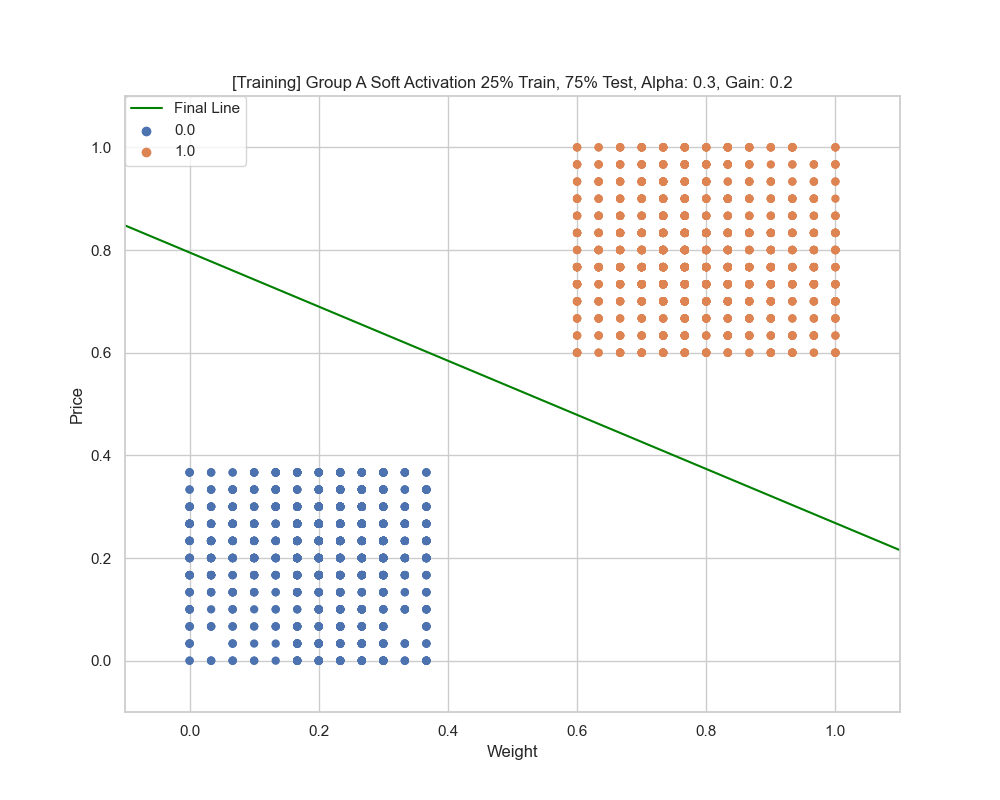
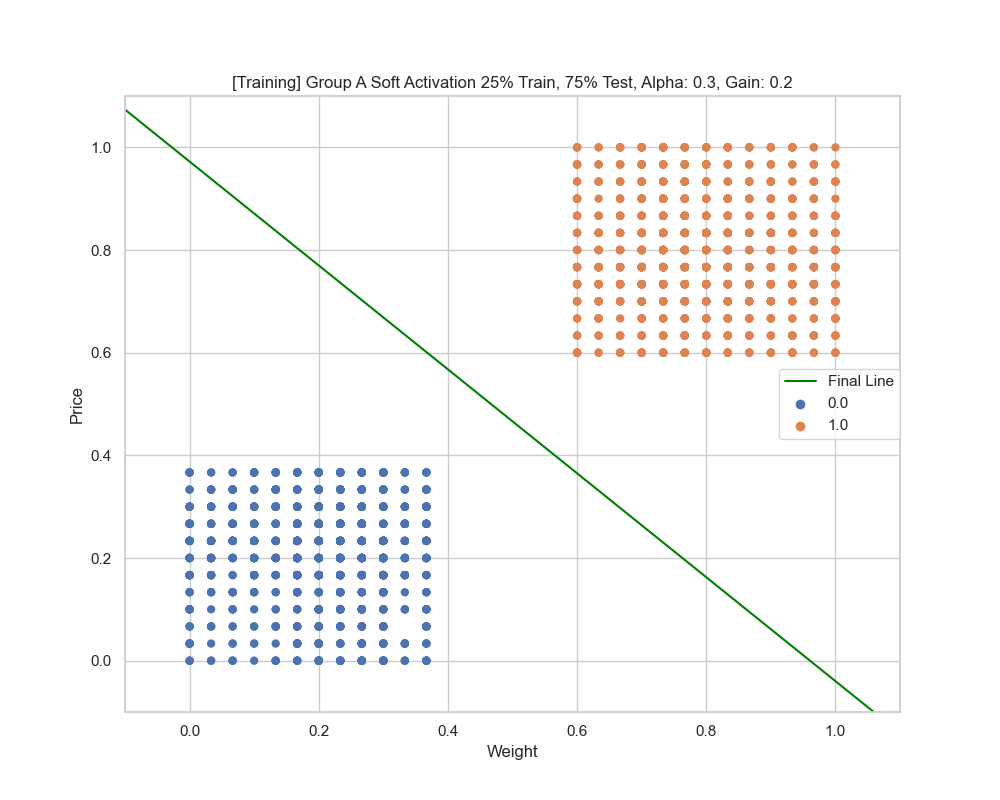
changes to graphs inc

diff --git a/assignment2.py b/assignment2.py
@@ -308,7 +308,7 @@ def confusion_matrix(title, predicted, actual):
 
 
 groupa_hard_75, groupa_hard_75_train, groupa_hard_75_test, groupa_hard_75_out, train, test = normalize_and_train_hard(
-    "Group A", df_a, 0.3, epsilon_a, max_iterations, .75)
+    "Group A", df_a, 0.3, epsilon_a, max_iterations, .25)
 groupa_hard_25, groupa_hard_25_train, groupa_hard_25_test, groupa_hard_25_out, train, test = normalize_and_train_hard(
     "Group A", df_a, 0.3, epsilon_a, max_iterations, .25)
 pred, testOut = test_hard(
@@ -329,9 +329,9 @@ confusion_matrix(
     "Group A Hard Activation 25% Train, 75% Test, Alpha: 0.3", pred, testOut)
 
 groupb_hard_75, groupb_hard_75_train, groupb_hard_75_test, groupb_hard_75_out, train, test = normalize_and_train_hard(
-    "Group B", df_b, 0.3, epsilon_b, max_iterations, .75)
-groupb_hard_25, groupb_hard_25_train, groupb_hard_25_test, groupb_hard_25_out, train, test = normalize_and_train_hard(
     "Group B", df_b, 0.3, epsilon_b, max_iterations, .25)
+groupb_hard_25, groupb_hard_25_train, groupb_hard_25_test, groupb_hard_25_out, train, test = normalize_and_train_hard(
+    "Group B", df_b, 0.3, epsilon_b, max_iterations, .75)
 pred, testOut = test_hard(
     groupb_hard_75, groupb_hard_75_test, groupb_hard_75_out)
 graph_results("[Training] Group B Hard Activation 75% Train, 25% Test, Alpha: 0.3",
@@ -350,9 +350,9 @@ confusion_matrix(
     "Group B Hard Activation 25% Train, 75% Test, Alpha: 0.3", pred, testOut)
 
 groupc_hard_75, groupc_hard_75_train, groupc_hard_75_test, groupc_hard_75_out, train, test = normalize_and_train_hard(
-    "GroupC", df_c, 0.3, epsilon_c, max_iterations, .75)
-groupc_hard_25, groupc_hard_25_train, groupc_hard_25_test, groupc_hard_25_out, train, test = normalize_and_train_hard(
     "GroupC", df_c, 0.3, epsilon_c, max_iterations, .25)
+groupc_hard_25, groupc_hard_25_train, groupc_hard_25_test, groupc_hard_25_out, train, test = normalize_and_train_hard(
+    "GroupC", df_c, 0.3, epsilon_c, max_iterations, .75)
 pred, testOut = test_hard(
     groupc_hard_75, groupc_hard_75_test, groupc_hard_75_out)
 graph_results("[Training] Group C Hard Activation 75% Train, 25% Test, Alpha: 0.3",
@@ -372,9 +372,9 @@ confusion_matrix(
 
 
 groupa_soft_75, groupa_soft_75_train, groupa_soft_75_test, groupa_soft_75_out, gainA_75, train, test = normalize_and_train_soft(
-    "GroupA", df_a, 0.3, epsilon_a, max_iterations, .2, .75)
-groupa_soft_25, groupa_soft_25_train, groupa_soft_25_test, groupa_soft_25_out, gainB_25, train, test = normalize_and_train_soft(
     "GroupA", df_a, 0.3, epsilon_a, max_iterations, .2, .25)
+groupa_soft_25, groupa_soft_25_train, groupa_soft_25_test, groupa_soft_25_out, gainB_25, train, test = normalize_and_train_soft(
+    "GroupA", df_a, 0.3, epsilon_a, max_iterations, .2, .75)
 pred, testOut = test_soft(
     groupa_soft_75, groupa_soft_75_test, groupa_soft_75_out, gainA_75)
 graph_results("[Training] Group A Soft Activation 75% Train, 25% Test, Alpha: 0.3, Gain: 0.2",
@@ -393,9 +393,9 @@ confusion_matrix(
     "Group A Soft Activation 25% Train, 75% Test, Alpha: 0.3, Gain: 0.2", pred, testOut)
 
 groupb_soft_75, groupb_soft_75_train, groupb_soft_75_test, groupb_soft_75_out, gainB_75, train, test = normalize_and_train_soft(
-    "GroupB", df_b, 0.3, epsilon_b, max_iterations, .2, .75)
-groupb_soft_25, groupb_soft_25_train, groupb_soft_25_test, groupb_soft_25_out, gainB_25, train, test = normalize_and_train_soft(
     "GroupB", df_b, 0.3, epsilon_b, max_iterations, .2, .25)
+groupb_soft_25, groupb_soft_25_train, groupb_soft_25_test, groupb_soft_25_out, gainB_25, train, test = normalize_and_train_soft(
+    "GroupB", df_b, 0.3, epsilon_b, max_iterations, .2, .75)
 pred, testOut = test_soft(
     groupb_soft_75, groupb_soft_75_test, groupb_soft_75_out, gainB_75)
 graph_results("[Training] Group B Soft Activation 75% Train, 25% Test, Alpha: 0.3, Gain: 0.2",
@@ -414,9 +414,9 @@ confusion_matrix(
     "Group B Soft Activation 25% Train, 75% Test, Alpha: 0.3, Gain: 0.2", pred, testOut)
 
 groupc_soft_75, groupc_soft_75_train, groupc_soft_75_test, groupc_soft_75_out, gainC_75, train, test = normalize_and_train_soft(
-    "GroupC", df_c, 0.1, epsilon_c, max_iterations, .1, .75)
-groupc_soft_25, groupc_soft_25_train, groupc_soft_25_test, groupc_soft_25_out, gainC_25, train, test = normalize_and_train_soft(
     "GroupC", df_c, 0.1, epsilon_c, max_iterations, .1, .25)
+groupc_soft_25, groupc_soft_25_train, groupc_soft_25_test, groupc_soft_25_out, gainC_25, train, test = normalize_and_train_soft(
+    "GroupC", df_c, 0.1, epsilon_c, max_iterations, .1, .75)
 pred, testOut = test_soft(
     groupc_soft_75, groupc_soft_75_test, groupc_soft_75_out, gainC_75)
 graph_results("[Training] Group C Soft Activation 75% Train, 25% Test, Alpha: 0.1, Gain: 0.1",
@@ -435,9 +435,9 @@ confusion_matrix(
     "Group C Soft Activation 25% Train, 75% Test, Alpha: 0.1, Gain: 0.1", pred, testOut)
 
 alta_hard_75, alta_hard_75_train, alta_hard_75_test, alta_hard_75_out, train, test = normalize_and_train_hard(
-    "Alt A", df_alt_a, 0.3, epsilon_a, max_iterations, .75)
-alta_hard_25, alta_hard_25_train, alta_hard_25_test, alta_hard_25_out, train, test = normalize_and_train_hard(
     "Alt A", df_alt_a, 0.3, epsilon_a, max_iterations, .25)
+alta_hard_25, alta_hard_25_train, alta_hard_25_test, alta_hard_25_out, train, test = normalize_and_train_hard(
+    "Alt A", df_alt_a, 0.3, epsilon_a, max_iterations, .75)
 pred, testOut = test_hard(
     alta_hard_75, alta_hard_75_test, alta_hard_75_out)
 graph_results("[Training] Alt Data A Hard Activation 75% Train, 25% Test, Alpha: 0.3",
@@ -456,9 +456,9 @@ confusion_matrix(
     "Alt Data A Hard Activation 25% Train, 75% Test, Alpha: 0.3", pred, testOut)
 
 altb_hard_75, altb_hard_75_train, altb_hard_75_test, altb_hard_75_out, train, test = normalize_and_train_hard(
-    "Alt B", df_alt_b, 0.3, epsilon_b, max_iterations, .75)
-altb_hard_25, altb_hard_25_train, altb_hard_25_test, altb_hard_25_out, train, test = normalize_and_train_hard(
     "Alt B", df_alt_b, 0.3, epsilon_b, max_iterations, .25)
+altb_hard_25, altb_hard_25_train, altb_hard_25_test, altb_hard_25_out, train, test = normalize_and_train_hard(
+    "Alt B", df_alt_b, 0.3, epsilon_b, max_iterations, .75)
 pred, testOut = test_hard(
     altb_hard_75, altb_hard_75_test, altb_hard_75_out)
 graph_results("[Training] Alt Data B Hard Activation 75% Train, 25% Test, Alpha: 0.3",
@@ -477,9 +477,9 @@ confusion_matrix(
     "Alt Data B Hard Activation 25% Train, 75% Test, Alpha: 0.3", pred, testOut)
 
 altc_hard_75, altc_hard_75_train, altc_hard_75_test, altc_hard_75_out, train, test = normalize_and_train_hard(
-    "Alt C", df_alt_c, 0.3, epsilon_c, max_iterations, .75)
-altc_hard_25, altc_hard_25_train, altc_hard_25_test, altc_hard_25_out, train, test = normalize_and_train_hard(
     "Alt C", df_alt_c, 0.3, epsilon_c, max_iterations, .25)
+altc_hard_25, altc_hard_25_train, altc_hard_25_test, altc_hard_25_out, train, test = normalize_and_train_hard(
+    "Alt C", df_alt_c, 0.3, epsilon_c, max_iterations, .75)
 pred, testOut = test_hard(
     altc_hard_75, altc_hard_75_test, altc_hard_75_out)
 graph_results("[Training] Alt Data C Hard Activation 75% Train, 25% Test, Alpha: 0.3",
@@ -499,9 +499,9 @@ confusion_matrix(
 
 
 alta_soft_75, alta_soft_75_train, alta_soft_75_test, alta_soft_75_out, gainA_75, train, test = normalize_and_train_soft(
-    "AltA", df_alt_a, 0.3, epsilon_a, max_iterations, .2, .75)
-alta_soft_25, alta_soft_25_train, alta_soft_25_test, alta_soft_25_out, gainB_25, train, test = normalize_and_train_soft(
     "AltA", df_alt_a, 0.3, epsilon_a, max_iterations, .2, .25)
+alta_soft_25, alta_soft_25_train, alta_soft_25_test, alta_soft_25_out, gainB_25, train, test = normalize_and_train_soft(
+    "AltA", df_alt_a, 0.3, epsilon_a, max_iterations, .2, .75)
 pred, testOut = test_soft(
     alta_soft_75, alta_soft_75_test, alta_soft_75_out, gainA_75)
 graph_results("[Training] Alt Data A Soft Activation 75% Train, 25% Test, Alpha: 0.3, Gain: 0.2",
@@ -520,9 +520,9 @@ confusion_matrix(
     "Alt Data A Soft Activation 25% Train, 75% Test, Alpha: 0.3, Gain: 0.2", pred, testOut)
 
 altb_soft_75, altb_soft_75_train, altb_soft_75_test, altb_soft_75_out, gainB_75, train, test = normalize_and_train_soft(
-    "AltB", df_alt_b, 0.3, epsilon_b, max_iterations, .2, .75)
-altb_soft_25, altb_soft_25_train, altb_soft_25_test, altb_soft_25_out, gainB_25, train, test = normalize_and_train_soft(
     "AltB", df_alt_b, 0.3, epsilon_b, max_iterations, .2, .25)
+altb_soft_25, altb_soft_25_train, altb_soft_25_test, altb_soft_25_out, gainB_25, train, test = normalize_and_train_soft(
+    "AltB", df_alt_b, 0.3, epsilon_b, max_iterations, .2, .75)
 pred, testOut = test_soft(
     altb_soft_75, altb_soft_75_test, altb_soft_75_out, gainB_75)
 graph_results("[Training] Alt Data B Soft Activation 75% Train, 25% Test, Alpha: 0.3, Gain: 0.2",
@@ -541,9 +541,9 @@ confusion_matrix(
     "Alt Data B Soft Activation 25% Train, 75% Test, Alpha: 0.3, Gain: 0.2", pred, testOut)
 
 altc_soft_75, altc_soft_75_train, altc_soft_75_test, altc_soft_75_out, gainC_75, train, test = normalize_and_train_soft(
-    "AltC", df_alt_c, 0.3, epsilon_c, max_iterations, .2, .75)
-altc_soft_25, altc_soft_25_train, altc_soft_25_test, altc_soft_25_out, gainC_25, train, test = normalize_and_train_soft(
     "AltC", df_alt_c, 0.3, epsilon_c, max_iterations, .2, .25)
+altc_soft_25, altc_soft_25_train, altc_soft_25_test, altc_soft_25_out, gainC_25, train, test = normalize_and_train_soft(
+    "AltC", df_alt_c, 0.3, epsilon_c, max_iterations, .2, .75)
 pred, testOut = test_soft(
     altc_soft_75, altc_soft_75_test, altc_soft_75_out, gainC_75)
 graph_results("[Training] Alt Data C Soft Activation 75% Train, 25% Test, Alpha: 0.3, Gain: 0.2",
